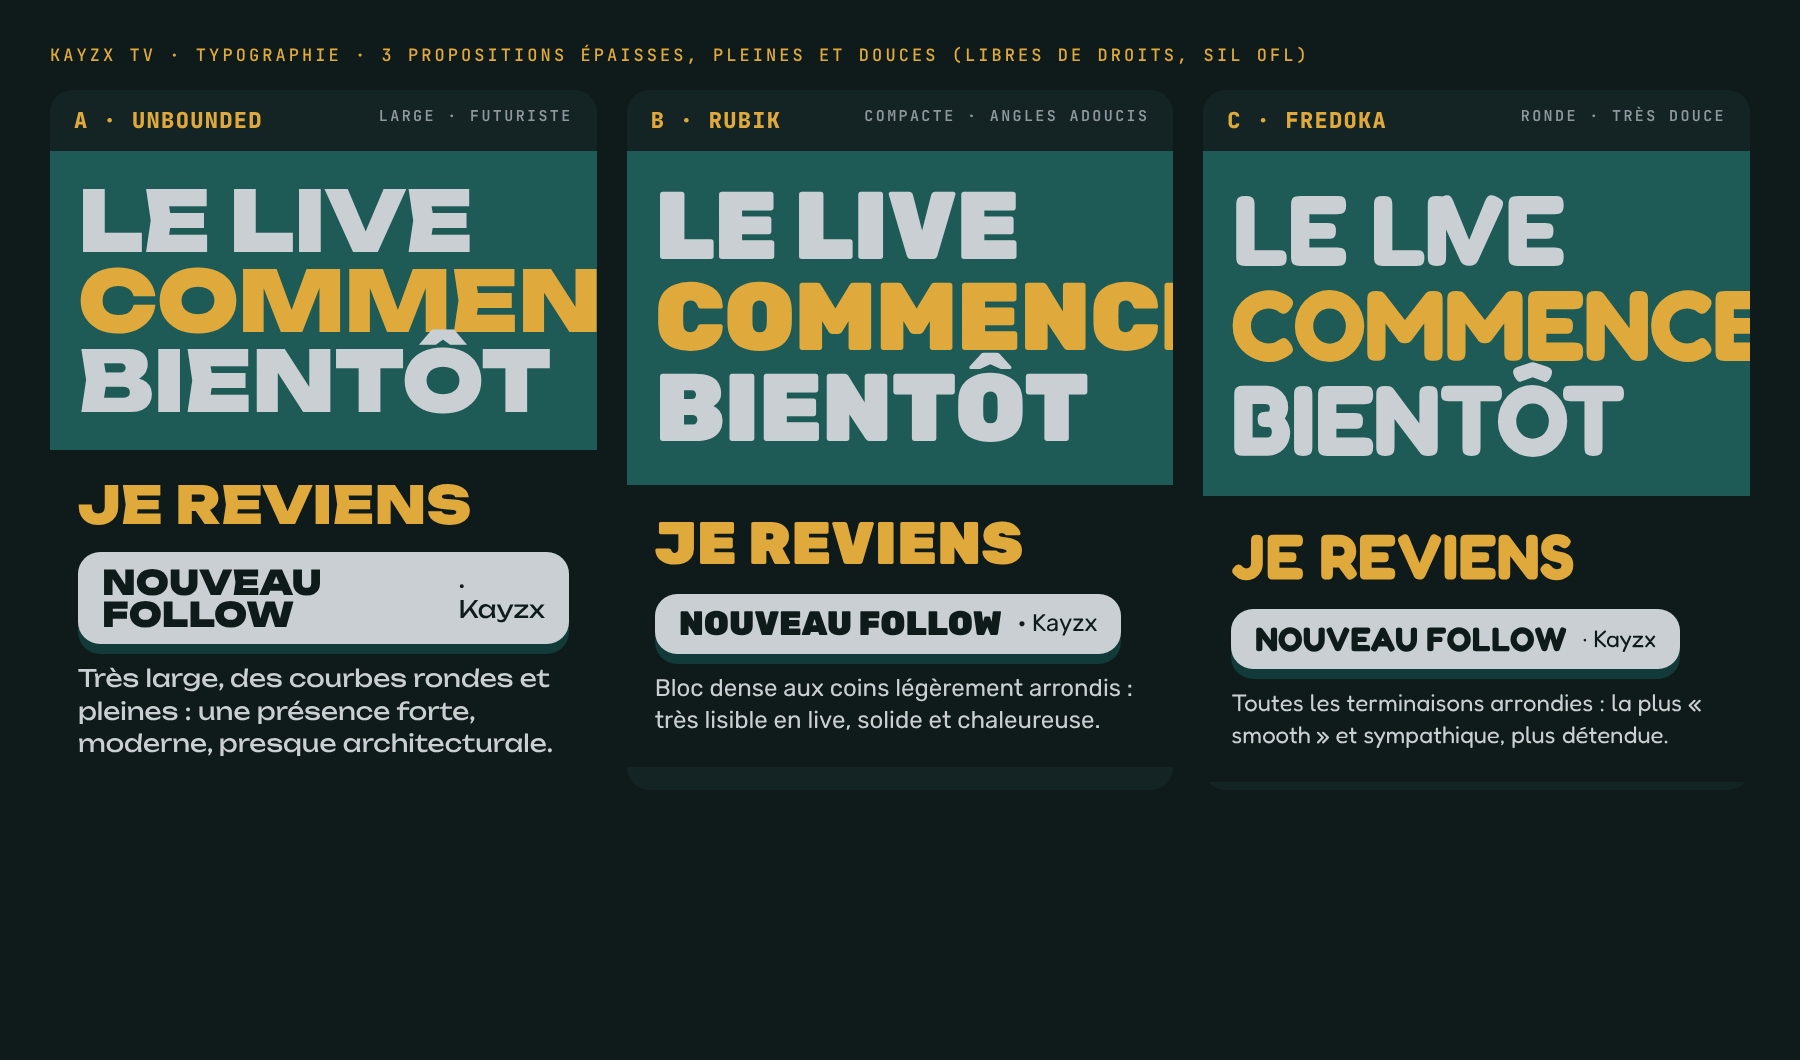
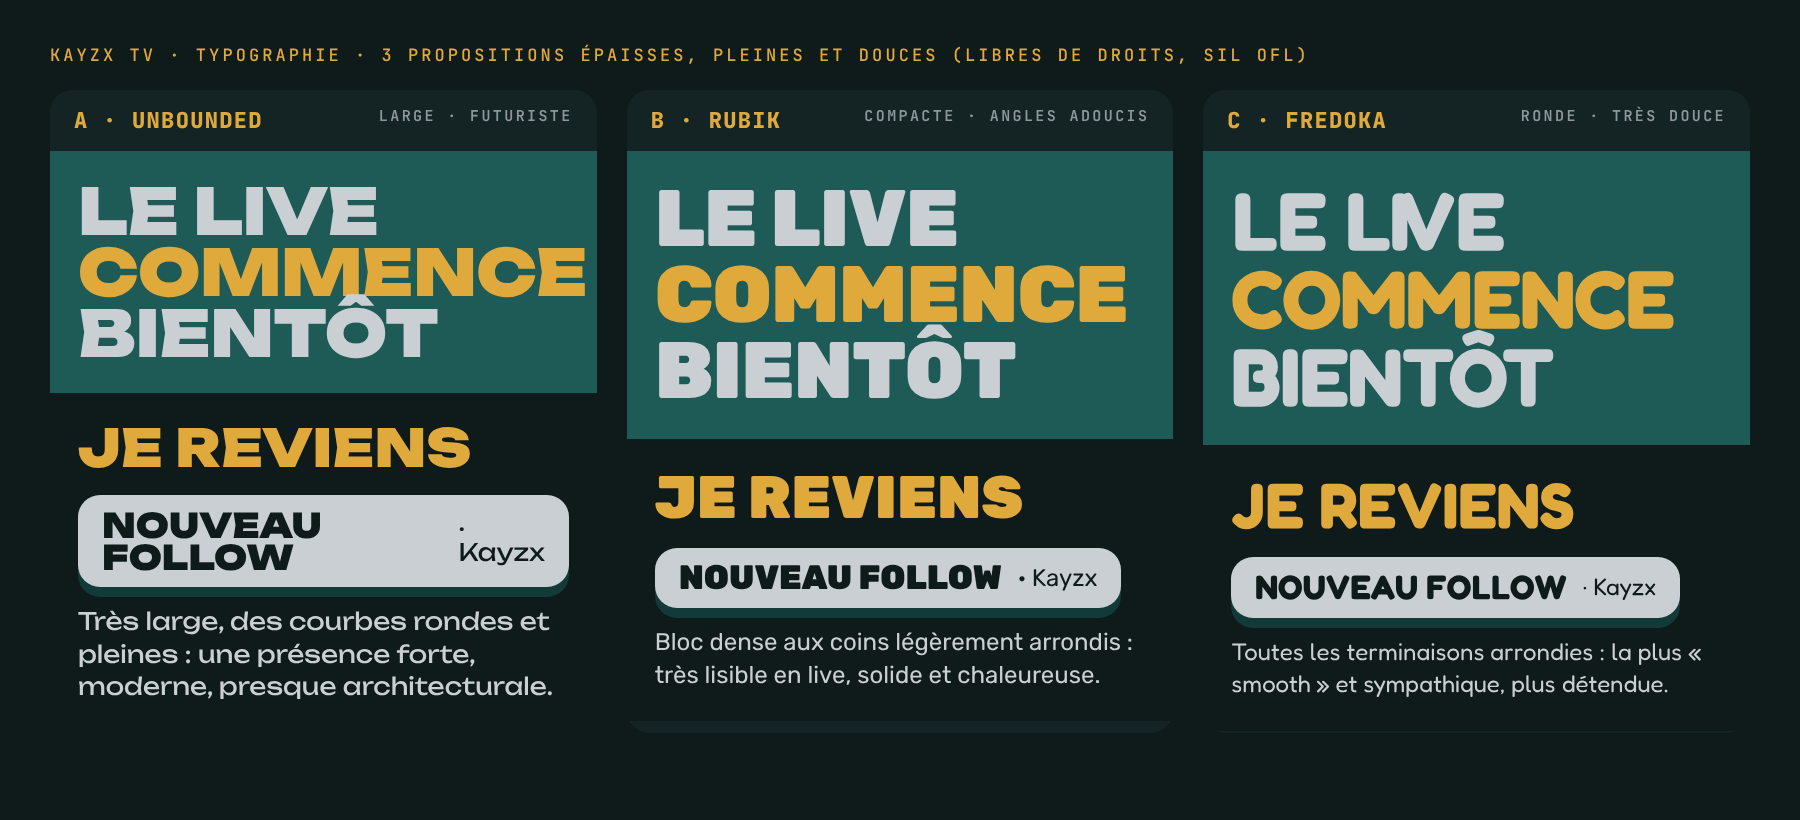
Pack de stream : propositions de typo, tailles ajustées
Claude-Session: https://claude.ai/code/session_013v3unX7UwZ24nM2cJEMJGu

diff --git a/stream-pack/typo/typo.html b/stream-pack/typo/typo.html
@@ -12,7 +12,7 @@ body{margin:0;background:#0F1A1A;color:#C9CFD3}
 .t b{color:#E0A93B;font-size:22px;letter-spacing:.06em}
 .z{padding:30px 28px;line-height:.95}
 .teal{background:#1E5B57}.nuit{background:#0F1A1A}
-.big{font-size:84px;font-weight:900;color:#C9CFD3;text-transform:uppercase;letter-spacing:-.01em}
+.big{font-size:64px;font-weight:900;color:#C9CFD3;text-transform:uppercase;letter-spacing:-.01em}
 .big em{font-style:normal;color:#E0A93B}
 .mid{font-size:52px;font-weight:900;color:#E0A93B;text-transform:uppercase}
 .al{display:inline-flex;align-items:center;gap:16px;background:#C9CFD3;color:#0F1A1A;border-radius:22px;padding:14px 24px;font-size:34px;font-weight:900;text-transform:uppercase;box-shadow:0 10px 0 #123A38}
@@ -25,9 +25,9 @@ body{margin:0;background:#0F1A1A;color:#C9CFD3}
   <div class="z teal"><div class="big">Le live<br><em>commence</em><br>bientôt</div></div>
   <div class="z nuit"><div class="mid">Je reviens</div><div style="height:22px"></div><div class="al">Nouveau follow <small>· Kayzx</small></div><div class="txt">Très large, des courbes rondes et pleines : une présence forte, moderne, presque architecturale.</div></div></div>
  <div class="c" style="font-family:R"><div class="t"><b>B · RUBIK</b><span>COMPACTE · ANGLES ADOUCIS</span></div>
-  <div class="z teal"><div class="big" style="font-size:96px">Le live<br><em>commence</em><br>bientôt</div></div>
+  <div class="z teal"><div class="big" style="font-size:80px">Le live<br><em>commence</em><br>bientôt</div></div>
   <div class="z nuit"><div class="mid" style="font-size:60px">Je reviens</div><div style="height:22px"></div><div class="al">Nouveau follow <small>· Kayzx</small></div><div class="txt">Bloc dense aux coins légèrement arrondis : très lisible en live, solide et chaleureuse.</div></div></div>
  <div class="c" style="font-family:F"><div class="t"><b>C · FREDOKA</b><span>RONDE · TRÈS DOUCE</span></div>
-  <div class="z teal"><div class="big" style="font-size:100px;font-weight:700">Le live<br><em>commence</em><br>bientôt</div></div>
+  <div class="z teal"><div class="big" style="font-size:82px;font-weight:700">Le live<br><em>commence</em><br>bientôt</div></div>
   <div class="z nuit"><div class="mid" style="font-size:64px;font-weight:700">Je reviens</div><div style="height:22px"></div><div class="al" style="font-weight:700">Nouveau follow <small>· Kayzx</small></div><div class="txt">Toutes les terminaisons arrondies : la plus « smooth » et sympathique, plus détendue.</div></div></div>
 </div></div></body></html>
